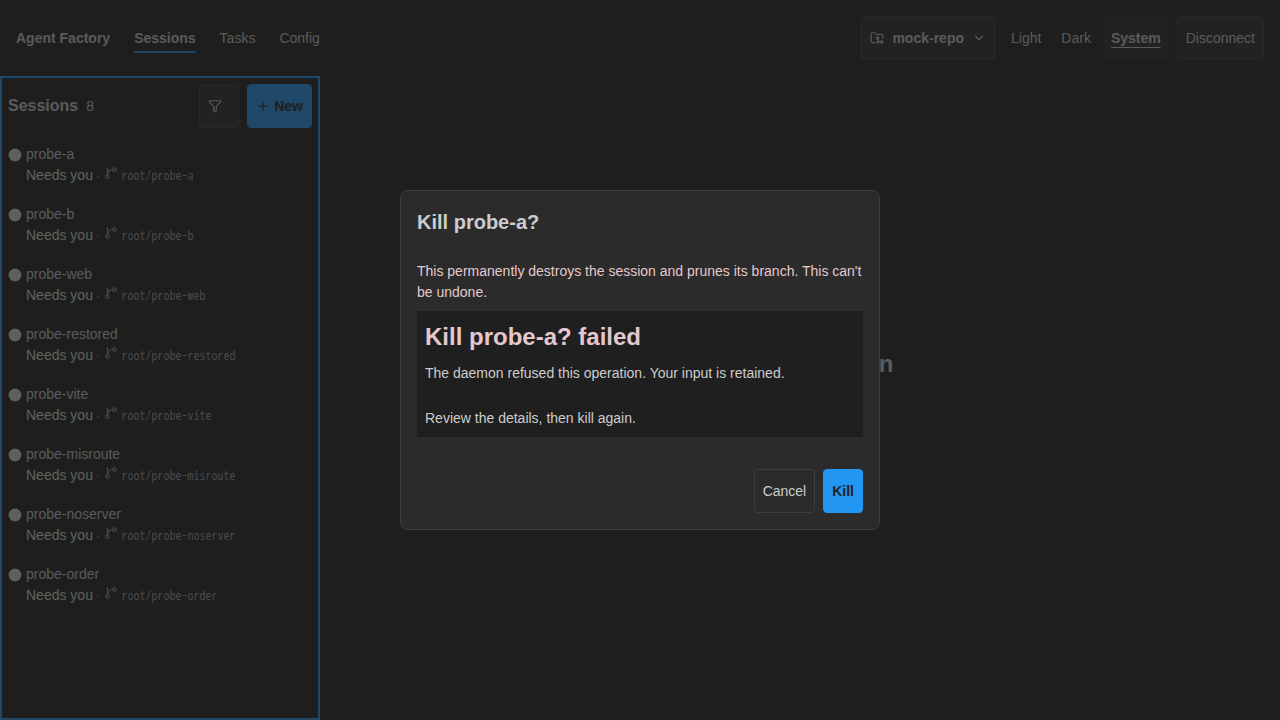
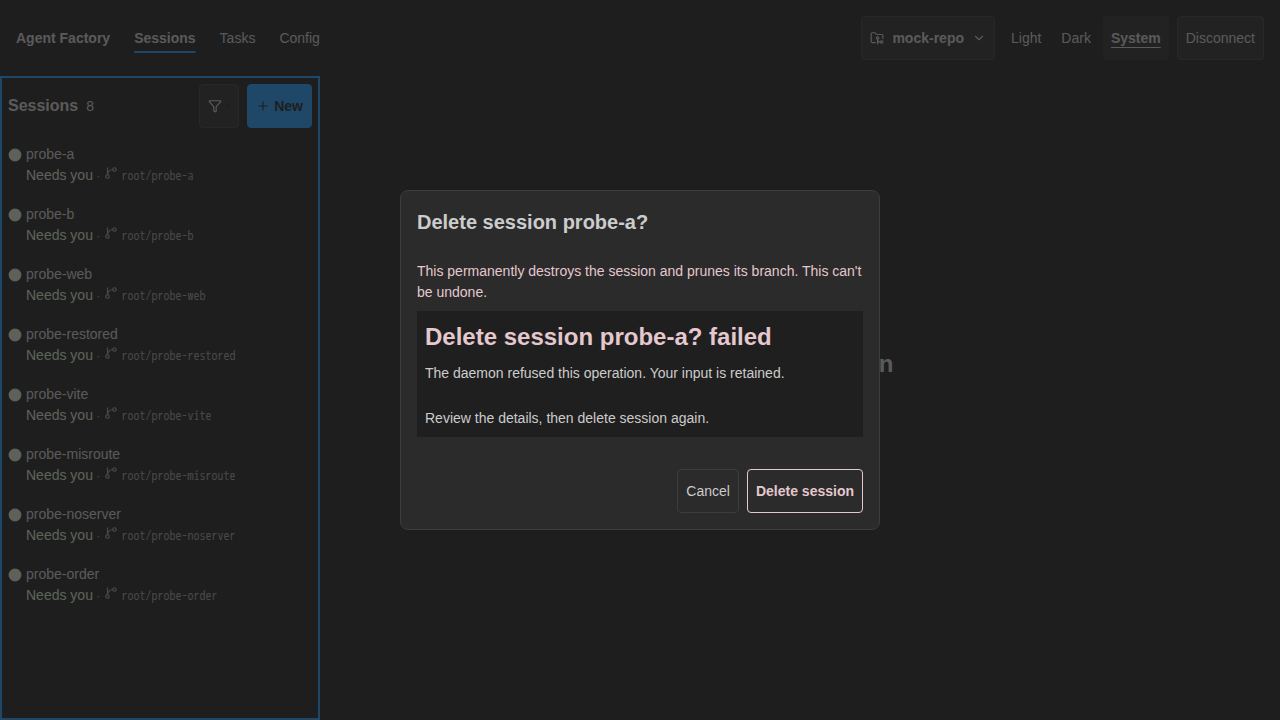
fix(web): distinguish destructive session confirmations (#4026)
Part of #4017 — item 18.

Session deletion now uses the shared destructive button style, with
danger-token text/borders and hover treatment; keyboard focus keeps the
shared accent ring. The shared neutral-control rule no longer overrides
that style. The modal uses “Delete session” wording to align with the
#4015 polish lane. No operation, RPC or CLI change.

Red, before the fix:
```
node --import tsx --test src/delete_visual.test.ts
not ok 1 - session deletion uses the shared destructive confirmation style
Expected confirmClass: "af-danger"; received "af-primary"

AF_PLAYWRIGHT_ARGS='delete-visual.spec.ts' scripts/testbox.sh web-selftest
2 failed (light and dark): Expected "af-danger", Received "af-primary"
```

Green:
```
npm test: 741 passed
npm run typecheck: passed
container delete-visual + optimistic + optimistic-races: 15 passed
container delete-visual + recovery (updated expected captures): 30 passed
```

Gates passed: `gofmt -l .` (empty), `go build ./...`, `go vet
./web/...`, `golangci-lint run --timeout=3m --fast`,
`scripts/lint-file-length.sh`. All daemon/browser execution stayed
inside testbox.

Container evidence (recaptured through the visible theme controls):
[light](https://github.com/sachiniyer/agent-factory/blob/fix/4017-item18-web-kill-destructive/docs/assets/4017/item18/after-light.png)
/
[dark](https://github.com/sachiniyer/agent-factory/blob/fix/4017-item18-web-kill-destructive/docs/assets/4017/item18/after-dark.png).
[…]

diff --git a/web/selftest/delete-visual.spec.ts b/web/selftest/delete-visual.spec.ts
@@ -1,0 +1,49 @@
+import { test, expect } from "@playwright/test";
+
+for (const theme of ["light", "dark"]) {
+  test(`session deletion has destructive confirmation in ${theme}`, async ({ page }, info) => {
+    await page.goto("/");
+    await page.getByRole("button", { name: theme === "light" ? "Light" : "Dark", exact: true }).click();
+    await expect(page.locator("html")).toHaveAttribute("data-af-theme", theme);
+    const row = page.locator(".af-row").first();
+    await row.hover();
+    await row.getByRole("button", { name: /^Actions for / }).click();
+    await row.getByRole("button", { name: /^(Kill|Delete) session/ }).click();
+    const button = page.locator(".af-modal-card button[type=submit]");
+    await expect(button).toHaveClass("af-danger");
+    const colors = await button.evaluate(el => ({
+      foreground: getComputedStyle(el).color,
+      border: getComputedStyle(el).borderTopColor,
+      cancel: getComputedStyle(document.querySelector(".af-modal-foot .af-ghost")!).color,
+    }));
+    expect(colors.foreground).not.toBe(colors.cancel);
+    expect(colors.border).toBe(colors.foreground);
+    await button.hover();
+    expect(await button.evaluate(el => getComputedStyle(el).color)).toBe(colors.foreground);
+    const cancel = page.getByRole("button", { name: "Cancel", exact: true });
+    await cancel.focus();
+    await page.keyboard.press("Tab");
+    await expect(button).toBeFocused();
+    expect(await button.evaluate(el => el.matches(":focus-visible"))).toBe(true);
+    const focus = await button.evaluate(el => {
+      const probe = document.createElement("span");
+      el.append(probe);
+      const tokenColor = (token: string) => {
+        probe.style.color = `var(${token})`;
+        return getComputedStyle(probe).color;
+      };
+      const accent = tokenColor("--af-accent");
+      const danger = tokenColor("--af-dead");
+      probe.remove();
+      const style = getComputedStyle(el);
+      return { accent, danger, outline: style.outlineColor, text: style.color, border: style.borderTopColor };
+    });
+    await page.screenshot({ path: info.outputPath("delete-confirmation.png") });
+    expect(focus.outline).toBe(focus.accent);
+    expect(focus.outline).not.toBe(focus.danger);
+    expect(focus.text).toBe(focus.danger);
+    expect(focus.border).toBe(focus.danger);
+    await cancel.click();
+    await expect(page.locator(".af-modal-card")).toHaveCount(0);
+  });
+}

diff --git a/web/selftest/web-driver.spec.ts b/web/selftest/web-driver.spec.ts
@@ -5283,7 +5283,7 @@ test("#2218: slow create closes immediately, shows daemon state, then opens atta
   await clickRailAction(page, created, "Kill session");
   const killModal = page.locator(".af-modal-card");
   await expect(killModal).toBeVisible();
-  await killModal.locator("button.af-primary").click();
+  await killModal.getByRole("button", { name: "Delete session", exact: true }).click();
   await expect(row(page, created)).toHaveCount(0, { timeout: 30_000 });
 });
 
@@ -5488,7 +5488,7 @@ test.describe("create → kill (one session, two flows)", () => {
 
     const modal = page.locator(".af-modal-card");
     await expect(modal).toBeVisible();
-    await modal.locator("button.af-primary").click();
+    await modal.getByRole("button", { name: "Delete session", exact: true }).click();
 
     // The killed row disappears from the rail (the killed event removes it).
     await expect(row(page, createdTitle)).toHaveCount(0, { timeout: 30_000 });
@@ -5864,7 +5864,7 @@ test("#2188: a filtered selected session keeps one visible management surface", 
     await expect(modal).toBeHidden();
     await p.getByRole("button", { name: "Session actions", exact: true }).click();
     await headActions.getByRole("button", { name: `Kill session “${title}”`, exact: true }).click();
-    await expect(modal).toContainText(`Kill ${title}?`);
+    await expect(modal).toContainText(`Delete session ${title}?`);
     await modal.getByRole("button", { name: "Cancel", exact: true }).click();
   } finally {
     await ctx.close();
@@ -10938,7 +10938,7 @@ test("#2226 mobile (375px): drawer dismissal follows action intent, not click pr
   await openDrawer();
   await clickRailAction(p, SESSION_A, "Kill session");
   await expectDrawerClosed();
-  await expect(modal).toContainText(`Kill ${SESSION_A}?`);
+  await expect(modal).toContainText(`Delete session ${SESSION_A}?`);
   await modal.getByRole("button", { name: "Cancel", exact: true }).click();
   await expect(modal).toBeHidden();
   expect(lifecyclePosts, "cancelling Kill must not post a lifecycle mutation").toEqual([]);

diff --git a/web/src/styles.css b/web/src/styles.css
@@ -3392,11 +3392,10 @@ button:disabled,
 /* Shared control and overlay recipes, completing the chrome migration. */
 button, input, select, textarea, summary { font-family: var(--af-font-ui); font-size: var(--af-type-body); line-height: 1.5; }
 button, summary, .af-input { min-height: calc(var(--af-space-4) + var(--af-space-3) + var(--af-space-1)); }
-.af-ghost, .af-danger, .af-input {
+.af-ghost, .af-input {
  padding: var(--af-space-2); background: var(--af-surface-raised); color: var(--af-ink);
  border: calc(var(--af-space-1) / 4) solid var(--af-border); border-radius: var(--af-radius-control);
 }
-.af-danger:hover:not(:disabled) { color: var(--af-ink); }
 .af-primary { padding: var(--af-space-2); background: var(--af-accent); color: var(--af-surface); border-radius: var(--af-radius-control); }
 button:disabled, .af-input:disabled { opacity: 1; border-style: dashed; }
 button:hover:not(:disabled), summary:hover { text-decoration: underline; }

diff --git a/web/dist/af-web.js b/web/dist/af-web.js
@@ -10713,9 +10713,9 @@ function handoffModal(sessionTitle, currentAgent, callbacks) {
 function confirmModal(opts) {
   const copy = {
     kill: {
-      title: `Kill ${opts.sessionTitle}?`,
-      confirmLabel: "Kill",
-      confirmClass: "af-primary",
+      title: `Delete session ${opts.sessionTitle}?`,
+      confirmLabel: "Delete session",
+      confirmClass: "af-danger",
       body: "This permanently destroys the session and prunes its branch. This can't be undone."
     },
     archive: {

diff --git a/web/src/modals.ts b/web/src/modals.ts
@@ -565,9 +565,9 @@ export function confirmModal(
   // archive confirm already prints.
   const copy = {
     kill: {
-      title: `Kill ${opts.sessionTitle}?`,
-      confirmLabel: "Kill",
-      confirmClass: "af-primary",
+      title: `Delete session ${opts.sessionTitle}?`,
+      confirmLabel: "Delete session",
+      confirmClass: "af-danger",
       body: "This permanently destroys the session and prunes its branch. This can't be undone.",
     },
     archive: {

diff --git a/web/dist/af-web.css b/web/dist/af-web.css
@@ -2648,16 +2648,12 @@ summary,
   min-height: calc(var(--af-space-4) + var(--af-space-3) + var(--af-space-1));
 }
 .af-ghost,
-.af-danger,
 .af-input {
   padding: var(--af-space-2);
   background: var(--af-surface-raised);
   color: var(--af-ink);
   border: calc(var(--af-space-1) / 4) solid var(--af-border);
   border-radius: var(--af-radius-control);
-}
-.af-danger:hover:not(:disabled) {
-  color: var(--af-ink);
 }
 .af-primary {
   padding: var(--af-space-2);

diff --git a/web/dist/sw.js b/web/dist/sw.js
@@ -68,7 +68,7 @@
 // than the af version on purpose: CI bumps main.go's version without rebuilding
 // web/dist, so a version stamp would desync the committed bundle from its own cache
 // name. The hash changes when — and only when — the shell bytes change.
-const VERSION = "6b69aa981d22";
+const VERSION = "ecd02bfca8e9";
 const CACHE = `af-shell-${VERSION}`;
 
 /** The exact same-origin SUB-RESOURCE paths this worker will handle. Anything absent

diff --git a/web/src/delete_visual.test.ts b/web/src/delete_visual.test.ts
@@ -1,0 +1,9 @@
+import { test } from "node:test";
+import assert from "node:assert/strict";
+import { readFileSync } from "node:fs";
+
+test("session deletion uses the shared destructive confirmation style", () => {
+  const source = readFileSync(new URL("./modals.ts", import.meta.url), "utf8");
+  const kill = source.split("kill: {")[1].split("archive: {")[0];
+  assert.match(kill, /confirmClass: "af-danger"/);
+});
